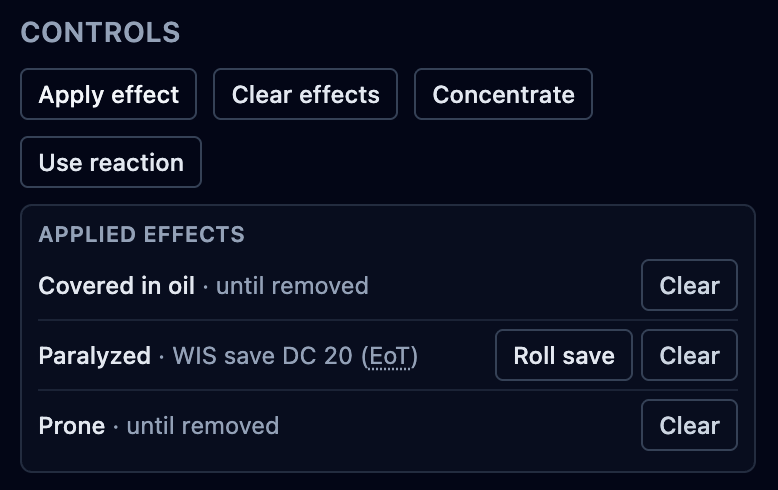
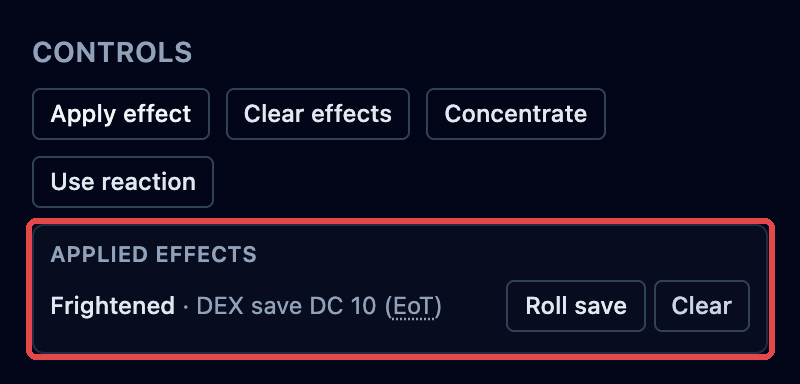
Docs: re-shoot six screenshots, add the difficulty readout
rule-sets.png was stale after the Rule sets → Libraries and Core Rules → Basic
Rules renames (issue #1): it now shows the Core/OpenFray/Other grouping, both
OpenFray libraries, the Homebrew creations row and the Sort by control.

apply-effect, effect-badge, applied-effects and roll-initiative each promised red
annotation in their alt text that the image never had — a screen-reader user was
told about highlighting that wasn't there. Re-shot with the annotation drawn, and
apply-effect's numbering now follows the page's own 1–4 list (duration, reminder,
condition, bonus or penalty) rather than the order the old alt text claimed.

encounter-difficulty.png is new, replacing the TODO comment in encounters.md.

Captures are 2× from the live console via a Playwright harness driving Chrome.

Changed region(s): [[0.0308, 0.5312, 0.9871, 0.9688], [0.0308, 0.0312, 0.7712, 0.375], [0.0308, 0.4062, 0.3393, 0.5]]

diff --git a/docs/src/content/docs/fight/effects.md b/docs/src/content/docs/fight/effects.md
@@ -34,7 +34,7 @@ Click the creature in the tracker, then click **Apply effect** in the controls b
 stat block. Everything happens in one box, and it stays open while you work — so you can
 put several things on the same creature before closing it.
 
-![The Apply effect box, with its duration, condition, modifier and reminder sections outlined in red and numbered one to four.](../../../assets/screens/apply-effect.png)
+![The Apply effect box with its duration, reminder, condition and bonus-or-penalty sections outlined in red and numbered one to four.](../../../assets/screens/apply-effect.png)
 
 **1. Set how long it lasts.** This setting applies to everything you add while the box is open, so start here:
 
@@ -108,7 +108,7 @@ reminder is a note, and you decide what it means.
 Each effect and reminder shows as a small **badge** under the combatants's name in the tracker — just
 the name, so the row stays easy to read at a glance.
 
-![A tracker row for an Ogre with a Frightened badge under its name, outlined in red.](../../../assets/screens/effect-badge.png)
+![A tracker row for an Ogre with its Frightened badge outlined in red and labeled as an effect on the creature.](../../../assets/screens/effect-badge.png)
 
 The details live in the **Applied effects** list, in the controls beside the stat block.
 There, each effect shows how it ends and carries its own buttons.

diff --git a/docs/src/content/docs/reference/settings.md b/docs/src/content/docs/reference/settings.md
@@ -17,7 +17,7 @@ needed. Open **Settings** from the gear at the top right.
 OpenFray ships with more than one edition of the rules, and with extra books of creatures.
 In **Settings**, tick the ones your table uses.
 
-![The Libraries panel in Settings, with Basic Rules 2024 ticked and the other libraries unticked.](../../../assets/screens/rule-sets.png)
+![The Libraries panel in Settings, grouped into Core, OpenFray and Other, with Basic Rules 2024 ticked.](../../../assets/screens/rule-sets.png)
 
 - **Basic Rules 2024** — the newer rules. On by default.
 - **Basic Rules 2014** — the older rules. Turn this on if that's what your table plays.

diff --git a/docs/src/content/docs/fight/encounters.md b/docs/src/content/docs/fight/encounters.md
@@ -30,7 +30,7 @@ While you're filling the board, the left of the footer rates the fight in front 
 adds up to. It changes every time you add or remove someone, so you can drop in one more
 foe and watch it move.
 
-<!-- TODO screenshot: encounter-difficulty.png — the difficulty readout in the footer, before the fight. Highlight: the tier badge and the XP total. -->
+![The difficulty readout in the footer, outlined in red, with arrows to the Deadly badge and the 3,375 XP total.](../../../assets/screens/encounter-difficulty.png)
 
 The rating is an estimate, and it's worth knowing what it's built from:
 

diff --git a/docs/src/content/docs/getting-started.md b/docs/src/content/docs/getting-started.md
@@ -58,7 +58,7 @@ tracker, where the round number appears once you're going:
 
 Before anything starts, OpenFray asks for everyone's initiative:
 
-![The Roll initiative box, with a player's roll field and the surprised toggle outlined in red.](../../assets/screens/roll-initiative.png)
+![The Roll initiative box, with a player's roll field and a creature's surprised toggle outlined in red and labeled.](../../assets/screens/roll-initiative.png)
 
 - Creatures are already rolled and filled in for you.
 - Players are blank. Type what each player rolled, or leave it blank and OpenFray rolls
